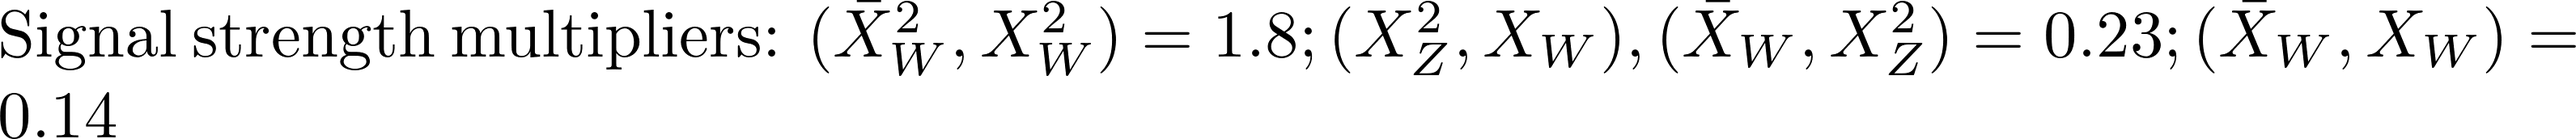
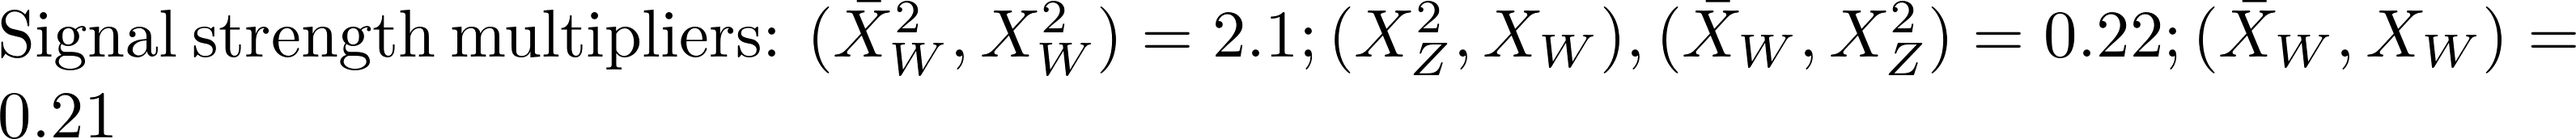
automated update by plotHiscore.py to /users/wolfgan.waltenberger/git/smodels.github.io/protomodels

Changed region(s): [[0.0, 0.6686, 0.0622, 0.9884], [0.4665, 0.0872, 0.5287, 0.407], [0.8087, 0.1453, 0.8398, 0.407]]

diff --git a/protomodels/ewkinos_230/index.html b/protomodels/ewkinos_230/index.html
@@ -1,29 +1,29 @@
 <html>
 <body>
 <center>
-<table><td><h1>Current best protomodel: <i>K</i>=8.15, <i>Z</i>=3.66</h1><td><img height=60px src=https://smodels.github.io//protomodels/logos/protomodel_lego.png></table>
+<table><td><h1>Current best protomodel: <i>K</i>=8.22, <i>Z</i>=3.64</h1><td><img height=60px src=https://smodels.github.io//protomodels/logos/protomodel_lego.png></table>
 </center>
-<b><a href=./hiscore.slha>ProtoModel</a> <a href=./pmodel.dict>(dict)</a> produced with <a href=https://smodels.github.io//docs/Validation230>database v2.3.0</a>, combination strategy <a href=./matrix.png>aggressive</a> in walker 126 step 114.</b>  SSM plots for: <br>
+<b><a href=./hiscore.slha>ProtoModel</a> <a href=./pmodel.dict>(dict)</a> produced with <a href=https://smodels.github.io//docs/Validation230>database v2.3.0</a>, combination strategy <a href=./matrix.png>aggressive</a> in walker 126 step 163.</b>  SSM plots for: <br>
 <table width=80%>
 <tr><td>
 <br><b>5 predictions available. Highest r values are:</b><br><ul>
-<li><a href=http://cms-results.web.cern.ch/cms-results/public-results/publications/SUS-16-048/index.html>CMS-SUS-16-048</a>:TChiWZoff r=0.65, r<sub>exp</sub>=1.46<br>
-<li><a href=http://cms-results.web.cern.ch/cms-results/public-results/publications/SUS-21-002/>CMS-SUS-21-002</a>:TChiWW r=0.42, r<sub>exp</sub>=0.77<br>
-<li><a href=http://cms-results.web.cern.ch/cms-results/public-results/publications/SUS-21-002/>CMS-SUS-21-002</a>:TChiWW r=0.41, r<sub>exp</sub>=0.67<br>
-<li><a href=http://cms-results.web.cern.ch/cms-results/public-results/publications/SUS-16-039/index.html>CMS-SUS-16-039-agg</a>:TChiWZoff r=0.34, r<sub>exp</sub>=0.73<br>
-<li><a href=https://atlas.web.cern.ch/Atlas/GROUPS/PHYSICS/PAPERS/SUSY-2013-11/>ATLAS-SUSY-2013-11</a>:TChiWWoff r=0.01, r<sub>exp</sub>=0.00<br>
+<li><a href=http://cms-results.web.cern.ch/cms-results/public-results/publications/SUS-16-048/index.html>CMS-SUS-16-048</a>:TChiWZoff r=0.60, r<sub>exp</sub>=1.35<br>
+<li><a href=http://cms-results.web.cern.ch/cms-results/public-results/publications/SUS-21-002/>CMS-SUS-21-002</a>:TChiWW r=0.49, r<sub>exp</sub>=0.91<br>
+<li><a href=http://cms-results.web.cern.ch/cms-results/public-results/publications/SUS-21-002/>CMS-SUS-21-002</a>:TChiWW r=0.48, r<sub>exp</sub>=0.79<br>
+<li><a href=http://cms-results.web.cern.ch/cms-results/public-results/publications/SUS-16-039/index.html>CMS-SUS-16-039-agg</a>:TChiWZoff r=0.32, r<sub>exp</sub>=0.68<br>
+<li><a href=https://atlas.web.cern.ch/Atlas/GROUPS/PHYSICS/PAPERS/SUSY-2013-11/>ATLAS-SUSY-2013-11</a>:TChiWWoff r=0.01, r<sub>exp</sub>=0.01<br>
 </ul>
 <td><br><b>contributions to K:</b><br>
 <ul>
-<li> <a href=https://atlas.web.cern.ch/Atlas/GROUPS/PHYSICS/PAPERS/SUSY-2013-11/>ATLAS-SUSY-2013-11</a>: 8.16 (0%)
-<li> <a href=http://cms-results.web.cern.ch/cms-results/public-results/publications/SUS-21-002/>CMS-SUS-21-002</a>: 5.14 (23%)
-<li> <a href=http://cms-results.web.cern.ch/cms-results/public-results/publications/SUS-16-039/index.html>CMS-SUS-16-039-agg</a>: 4.16 (30%)
-<li> <a href=http://cms-results.web.cern.ch/cms-results/public-results/publications/SUS-16-048/index.html>CMS-SUS-16-048</a>: 1.86 (47%)
-<td><img width=600px src=./texdoc.png?1706535662>
-<br><font size=-1>Last updated: Mon Jan 29 14:41:02 2024</font>
+<li> <a href=https://atlas.web.cern.ch/Atlas/GROUPS/PHYSICS/PAPERS/SUSY-2013-11/>ATLAS-SUSY-2013-11</a>: 8.23 (0%)
+<li> <a href=http://cms-results.web.cern.ch/cms-results/public-results/publications/SUS-21-002/>CMS-SUS-21-002</a>: 5.36 (22%)
+<li> <a href=http://cms-results.web.cern.ch/cms-results/public-results/publications/SUS-16-039/index.html>CMS-SUS-16-039-agg</a>: 4.31 (30%)
+<li> <a href=http://cms-results.web.cern.ch/cms-results/public-results/publications/SUS-16-048/index.html>CMS-SUS-16-048</a>: 1.82 (49%)
+<td><img width=600px src=./texdoc.png?1706536621>
+<br><font size=-1>Last updated: Mon Jan 29 14:57:01 2024</font>
 </table><table style="width:80%">
-<td width=45%><img height=580px src=./ruler.png?1706535662><td width=55%><img height=340px src=./decays.png?1706535662>
-<font size=-3><iframe type="text/html" height="270px" width="100%s" frameborder="0" src="./rawnumbers.html?1706535662"></iframe></font>
+<td width=45%><img height=580px src=./ruler.png?1706536621><td width=55%><img height=340px src=./decays.png?1706536621>
+<font size=-3><iframe type="text/html" height="270px" width="100%s" frameborder="0" src="./rawnumbers.html?1706536621"></iframe></font>
 </table>
 </body>
 </html>
